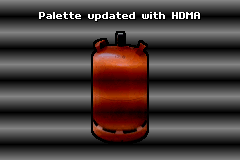
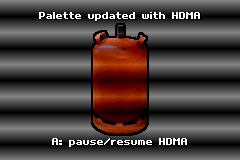
examples: hdma can be paused and resumed in hdma_palette example

Changed region(s): [[0.2042, 0.6562, 0.7875, 0.9062], [0.3792, 0.125, 0.6417, 0.4375], [0.525, 0.5625, 0.5833, 0.5938]]

diff --git a/examples/hdma_palette/src/main.cpp b/examples/hdma_palette/src/main.cpp
@@ -6,6 +6,7 @@
 #include "bn_core.h"
 
 #include "bn_hdma.h"
+#include "bn_keypad.h"
 #include "bn_display.h"
 #include "bn_unique_ptr.h"
 #include "bn_affine_bg_ptr.h"
@@ -22,10 +23,14 @@ int main()
 {
     bn::core::init();
 
-    bn::sprite_text_generator text_generator(common::variable_8x16_sprite_font);
-    common::info info("Palette updated with HDMA", bn::span<const bn::string_view>(), text_generator);
+    constexpr bn::string_view info_text_lines[] = {
+        "A: pause/resume HDMA",
+    };
 
-    bn::affine_bg_ptr bg = bn::affine_bg_items::butane_cylinder.create_bg(0, 8);
+    bn::sprite_text_generator text_generator(common::variable_8x16_sprite_font);
+    common::info info("Palette updated with HDMA", info_text_lines, text_generator);
+
+    bn::affine_bg_ptr bg = bn::affine_bg_items::butane_cylinder.create_bg(0, 0);
     bg.set_wrapping_enabled(false);
 
     constexpr const bn::bg_palette_item& bg_palette_item = bn::affine_bg_items::butane_cylinder.palette_item();
@@ -58,6 +63,18 @@ int main()
 
     while(true)
     {
+        if(bn::keypad::a_pressed())
+        {
+            if(bn::hdma::running())
+            {
+                bn::hdma::stop();
+            }
+            else
+            {
+                bn::hdma::start(*hdma_source_data, colors_count, *bn::hw::palettes::bg_color_register(0));
+            }
+        }
+
         bg.set_rotation_angle((bg.rotation_angle() + 1) % 360);
 
         info.update();
